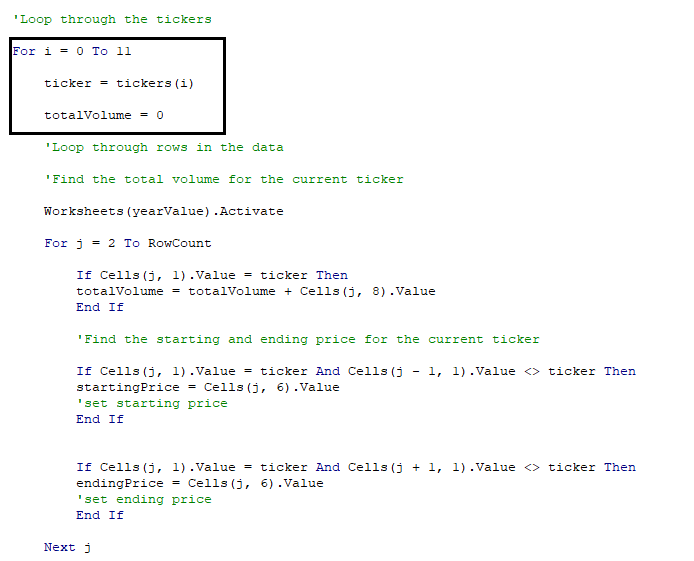
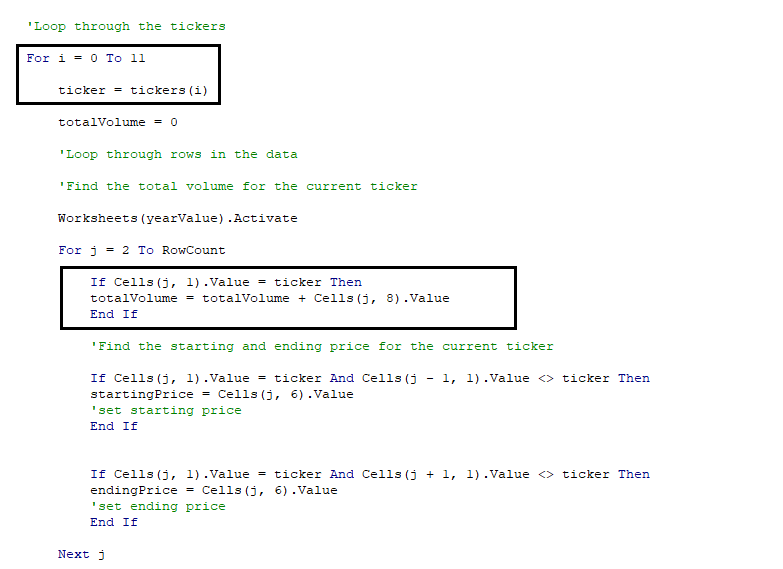
Cleaned up README, VBA_Challenge workbook, and an image

diff --git a/README.md b/README.md
@@ -8,32 +8,32 @@ The purpose of this analysis is to show my findings from the All Stocks Analysis
 
 ### All Stocks Performance Analysis
 
-The purpose of this code is to analyze an entire dataset of stocks prices and volumes at the click of a button. This code also provides the ability to specify the year for the analysis. Currently, Steve's parents are putting all their money in the DQ stock. With this code, Steve and parents would be able to compare DQ to other alternative energy stocks in 2017 and 2018 at the press of a button and get some new investment ideas to expand their portfolio.
+The purpose of this code is to analyze an entire dataset of stocks prices and volumes at the click of a button. This code also provides the ability to specify the year for the analysis. Currently, Steve's parents are putting all their money in the DQ stock. With this code, Steve and parents would be able to compare DQ to other alternative energy stocks' performance in 2017 and 2018 at the press of a button and get some new investment ideas to expand their portfolio.
 
 When clicking the "All Stocks Analysis" button, the code will run automatically by looping through the dataset once and calculating the total volume and year-end return for each ticker. In addition to providing these numbers, the code will automatically format the results so that it is easier for the reader to compare the performance of the stocks. The results of the All Stocks Analysis for the years 2017 and 2018 are illustrated in the tables below.
 
 ![All_Stocks_Performance_2017](All_Stocks_Performance_2017.PNG)
 
 
-As shown in the image above, DQ had the strongest stock return performance among the set of stocks provided by Steve. However, the 2017 performance cannot be used as a proper reference especially when we look at the stark contrast of 2018's performance as shown in the table below.
+As shown in the image above, DQ had the strongest stock return performance among the set of stocks provided by Steve. However, the 2017 performance cannot be used as the determining factor for only buying DQ especially when we look at the stark contrast of 2018's performance as shown in the table below.
 
 ![All_Stocks_Performance_2018](All_Stocks_Performance_2018.PNG)
 
-According to the graph, the set of stocks experienced a decline in returns of approximately 76% on average in 2018. Moreover, DQ experienced the greatest decline in return in 2018, thus, showing the high volatility of this stock. On the other hand, there were two stocks that stuck out to me because of their consistent positive returns across 2017 and 2018: ENPH and RUN. Also, when comparing ENPH and RUN to the average return of each stock in 2017-2018, ENPH and RUN have a higher average return than DQ as shown in the average return ranking table below. Above all, ENPH and RUN demonstrated resiliency in maintaining high positive returns despite the overall decline in returns in 2018. Therefore, my suggestion to Steve's parents would be to purchase at least ENPH and SEDG to include in their alternative energy stocks portfolio because of their stable average higher return and also because it will enable them to diversify their portfolio with stocks from companies that provide different alternative energy products.
+According to the graph, this set of stocks experienced a decline in returns of approximately 76% on average in 2018. Moreover, DQ experienced the greatest decline in return in 2018, thus, showing the high volatility of this stock. On the other hand, there were two stocks that stuck out to me because of their consistent positive returns across 2017 and 2018: ENPH and RUN. Also, when comparing ENPH and RUN to the average return of each stock in 2017-2018, ENPH and RUN have a higher average return than DQ as shown in the average return ranking table below. Above all, ENPH and RUN demonstrated resiliency in maintaining high positive returns despite the overall decline in returns in 2018. Therefore, my suggestion to Steve's parents would be to purchase at least ENPH and SEDG to include in their alternative energy stocks portfolio because of their stable average higher return and also because it will enable them to diversify their portfolio with stocks from companies that provide different alternative energy products.
 
 ![Average_Return_2017_And_2018](Average_Return_2017_And_2018.PNG)
 
 ### Refactoring of the Code Analysis
-My friend Steve appreciated my help with creating this code that analyzes many stocks at the same time, but Steve also needed my help with making the code more flexible and efficient to analyze a wider set of stocks.  
+My friend Steve appreciated my help with creating this code that analyzes many stocks at the click of a button, but Steve also needed my help with making the code more flexible and efficient to analyze a wider set of stocks.  
 
 
-In this analysis, I implemented a refactoring of the code to test whether refactoring could make the VBA script run faster. I created an index and created three arrays, tickerVolumes, tickerStartingPrices, and tickerEndingPrices, in addition to the tickers array that was also included in the code of the module. As the image below shows, the index was used as a reference across the different arrays used in the loop so that when the loop was running through the data, it would locate the specific ticker, as indicated by the tickerIndex, to use when collecting data. As a result, the loop would go through the data one time and collect all of the information without having to go through the entire set of rows multiple times. 
+In this analysis, I implemented a refactoring of the code to test whether refactoring could make the VBA script run faster. I created an index and three arrays, tickerVolumes, tickerStartingPrices, and tickerEndingPrices, in addition to the tickers array that was also included in the original code of the module. As the image below shows, the index was used as a reference across the different arrays used in the loop so that when the loop was running through the data, it would know where the set of data for a specific ticker is located by using the tickerIndex and because the data for each ticker is store in groups. Particularly, the If-Then statement helped the code identify where the set of data changed from one ticker to the next. Additionally, the tickerIndex increment was conducted within the If statement. As a result, the loop would go through the data one time and collect all of the information as it goes from one set of data for a specific ticker and then to the next, without having to go through the entire set of rows multiple times. 
 
 
 ![Refactored_Code_ForLoop](Refactored_Code_ForLoop.png)
 
 
-In the original code from the module, there was no index used and the three steps of identifying tickers, calculating tickerVolumes and setting the starting and ending prices were packed into one nested For Loop that reinitiated the entire process every time a ticker was chnaged. As shown in the image below, every time a new ticker is selected, the code will run through all the rows searching for this specific ticker and its corresponding data. Once the code finished reading all the rows searching for this ticker, it would then switch to the next ticker and read through the entire set of rows once again. As a result, the loop would be going through the same set of data **12 times** which causes a delay in execution. 
+In the original code from the module, there was no assumption that the data for each ticker was organized in groups. As shown in the image below, every time a new ticker is selected, the code will run through all the rows searching for this specific ticker and its corresponding data in order to not leave any data for a ticker behind. This is particularly shown by the If-Then statement above the totalVolume calculation which intructs the code to search through the entire set of rows to seek for the data for a specfic ticker before switching to the next ticker. Once the code finished reading all the rows searching for this ticker, it would then switch to the next ticker and read through the entire set of rows once again. As a result, the loop would be going through the same set of data **12 times** which causes a delay in execution. 
 
 ![Original_Code_ForLoop](Original_Code_ForLoop.png)
 
@@ -47,7 +47,7 @@ Comparatively, after implementing refactoring to the original code, the All Stoc
 ![VBA_Challenge_2017](VBA_Challenge_2017.PNG)
 ![VBA_Challenge_2018](VBA_Challenge_2018.PNG)
 
-By using the tickerIndex to specify which ticker to look for, it helped reduced the runtime of the code by approximately an average of 0.79 secs or 82% for a database that contains 3013 rows of entries and which would make an even greater difference for a bigger database.
+By understanding the structure of the data and using the tickerIndex to specify which ticker to look for, it helped reduced the runtime of the code by approximately an average of 0.79 secs or 82% for a database that contains 3013 rows of entries and which could have made an even greater difference for a bigger database.
 
 ### Analysis Results Challenges
 A challenge encountered when comparing the execution times of refactored and non-refactored code was to ensure that the code running times were comparable. This was a challenge because the first time you run a macro, the elapsed time may be longer than subsequent runs since computer resources need to be allocated to run a macro in the first time. Therefore, it is important to ensure that the computer resources have been allocated by running the macros several times first and then compare the elapsed times. Once the difference between the elapsed times for the same macro is minimal, then it is safe to compare it to the elapsed times of other macro runs. For instance, when conducting 10 consequent runs of the refactored code for 2017 as shown in the line graph below, the biggest difference between the elapsed times lies between the first and second run. Therefore, it is important to not use the first run of the macro for elapsed times comparison purposes since the computer resources have not been allocated yet. 
@@ -57,7 +57,7 @@ A challenge encountered when comparing the execution times of refactored and non
 
 ## Summary
 
-Refactoring code is a common practice since first versions of codes are not always the most efficient ones. A lot of people may agree that there are plenty of advantages of refactoring code, but there are also people who disagree with this approach. Although I understand that the impact of refactoring varies from project to project, I believe that the overall advantages outweigh the disadvantages:
+Refactoring code is a common practice since first versions of codes are not always the most efficient ones. A lot of people may agree that there are plenty of advantages from refactoring code, but there are also people who disagree with this approach. Although I understand that the impact of refactoring varies from project to project, I believe that the overall advantages outweigh the disadvantages:
 
 ### Advantages of Refactoring
 * It can improve the efficiency of the code by shortening execution time
@@ -68,8 +68,9 @@ Refactoring code is a common practice since first versions of codes are not alwa
 ### Disadvantages of Refactoring
 * Depending on the circumstances and the changes to be made, rewriting the code from scratch could be more efficient than making some big changes
 * Refactoring code can be time-consuming and expensive, especially for bigger projects
-* If the refactoring is done incorrectly, it can make the system less effective  
+* If the refactoring is done incorrectly, it can make the system less effective
+* Depending on the data structure, refactoring code might require some data cleaning or restructuring beforehand which is a time consuming activity  
  
-In the code for the All Stocks Analysis, the benefits from refactoring outweighs the disadvantages. For instance, refactoring the initial nested For Loop to a For Loop that uses Indexing for the tickers helped the execution time reduce by about an average of 0.79 seconds or 82%. By refactoring the initial code, I was able to reduce the redundant steps of reading all the rows multiple times to reading it only once and gather all the information needed. Additionally, the code became much simpler and easier to read as well as more adaptable for larger sets of data since the execution time has been greatly reduced. Many of the disadvantages mentioned above are not applicable in this case since the analysis code has a relatively simple structure and high-level nature of the project. The only disadvantage that may come up is the additional time spent in refactoring the code and fixing the bugs which may have taken me an additional 20% of the time spent writing the original script. Overall, implementing refactoring to the original code made it more efficient and adaptable for larger data sets, which is what Steve is looking for.
+In the code for the All Stocks Analysis, the benefits from refactoring outweighs the disadvantages. By recognizing the grouping structure of the stocks' data, refactoring the initial nested For Loop to a For Loop that uses indexing for the tickers helped the execution time reduce by about an average of 0.79 seconds or 82%. Through the refactoring of the initial code, I was able to reduce the redundant steps of reading all the rows multiple times to reading it only once and gather all the information needed. Additionally, the code became much simpler and easier to read as well as more adaptable for larger sets of data since the execution time has been greatly reduced. Most of the disadvantages mentioned above are not applicable in this case because of the relatively simple structure and high-level nature of the project. However, it is important to mention that the refactoring worked because of the structure of the data which is organized in groups. If the data for each ticker had come in a random order or organized in chronological order regardless of the grouping of tickers, this refactoring might have not worked or at least required some additional code to organize the data. Nevertheless, implementing refactoring to the original code made it more efficient and adaptable for larger data sets, which is what Steve is looking for.
 
 
